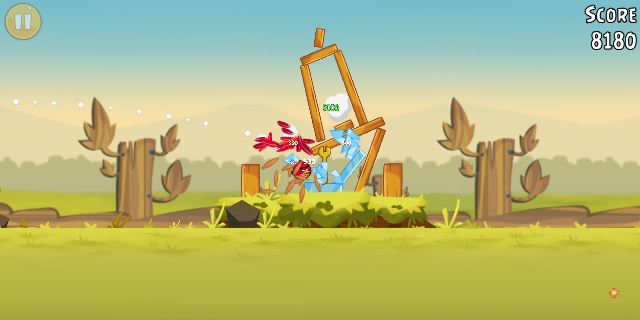
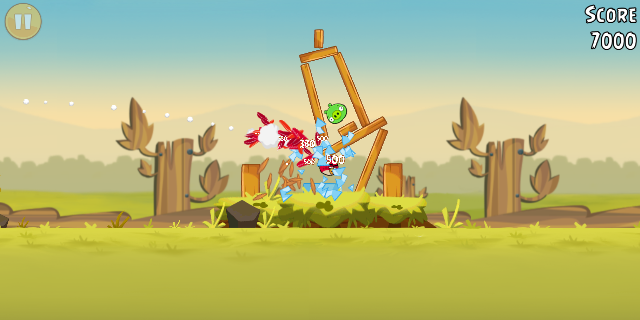
proofs: regenerate the 5 screenshots that predated the current build — the STALE note is gone
verify_claims.sh had reported the same NOTE on every run for a long time:

    [STALE] 3 capture(s) are from builds that are no longer current:
             - playthrough / emu_fatal / interactive: captured on 0ac034ec5815...,
               angrybirds-8.0.3-x86shim.apk is now 11ed02932250...
    NOTE: 3 screenshot capture(s) predate the current build

It is now absent: 37 checks, ALL CHECKED CLAIMS HOLD, no NOTE.

All three were captures of the DEBUG x86shim build, which is a moving target -- it had drifted
again by the time I looked (to c5911a79, since the new GPU dumps are active in non-release
builds). I nearly designed a "mark them historical" mechanism instead, on the theory that
regenerating is a treadmill. Two things settled it against that: the index ALREADY has the
idiom for genuinely unregenerable evidence (PROOF_5 is labelled "HISTORICAL -- no script
regenerates this, superseded by PROOF_3"), and these five DO have producing scripts. Inventing
a second, weaker way to silence the gate when a real regeneration is available would have been
a way of not doing the work.

Regenerated on the current build (c5911a79), API 25, and every image was LOOKED AT rather than
scored -- which is the index's own rule, and the only check that catches a timing-sensitive
capture that missed:

  PROOF_tutorial_render   emu_fatal.sh          tutorial card renders; fatal_seen=0,
                                                draws=201754. (The "[h_fatal] LR-capture"
[…]

diff --git a/reports/shots/README.md b/reports/shots/README.md
@@ -30,9 +30,9 @@ is given from the run that produced them and is marked `(by run, not hash)`.
 | Proof | What is visible | Build | API | Source |
 |---|---|---|---|---|
 | `PROOF_tutorial_render.png` | The engine renders — tutorial scene drawn under emulation | x86shim | 25 | `emu_fatal.sh` |
-| `PROOF_2_interactive_level.png` | Tutorial level up and interactive: slingshot loaded, pigs placed, score 0, drag hint | x86shim `40aedfcd` | 25 | `emu_interactive_capture.sh` |
-| `PROOF_3_bird_launched.png` | Bird launched and connected — impact burst, score popups, debris, a live scored hit | x86shim `40aedfcd` | 25 | `emu_interactive_capture.sh` |
-| `PROOF_4_debris_settle.png` | The shot has resolved: structure collapsed, score well above zero, physics still settling. Exact framing varies per run (see the note below) | x86shim `40aedfcd` | 25 | `emu_interactive_capture.sh` |
+| `PROOF_2_interactive_level.png` | Tutorial level up and interactive: slingshot loaded, pigs placed, score 0, drag hint | x86shim `c5911a79` | 25 | `emu_interactive_capture.sh` |
+| `PROOF_3_bird_launched.png` | Bird launched and connected — impact burst, score popups, debris, a live scored hit | x86shim `c5911a79` | 25 | `emu_interactive_capture.sh` |
+| `PROOF_4_debris_settle.png` | The shot has resolved: structure collapsed, score well above zero, physics still settling. Exact framing varies per run (see the note below) | x86shim `c5911a79` | 25 | `emu_interactive_capture.sh` |
 | `PROOF_5_destruction_score5820.png` | Structure destroyed, score 5820. **HISTORICAL — no script regenerates this**, and it is superseded by `PROOF_3`, which shows a launch and impact with live scoring and *can* be regenerated | x86shim (build unknown) | 25 | — |
 | `PROOF_6_levelend_survived.png` | **The level-end transition survives** (the deepest bug) — win screen, `h_fatal=0` | x86shim | 25 | `emu_playthrough.sh` |
 | `PROOF_7_level2_progression.png` | Tapping NEXT loads a **fresh, distinct level 2** — score 0, new structures | x86shim-release | 25 | `emu_progress_release.sh` |
